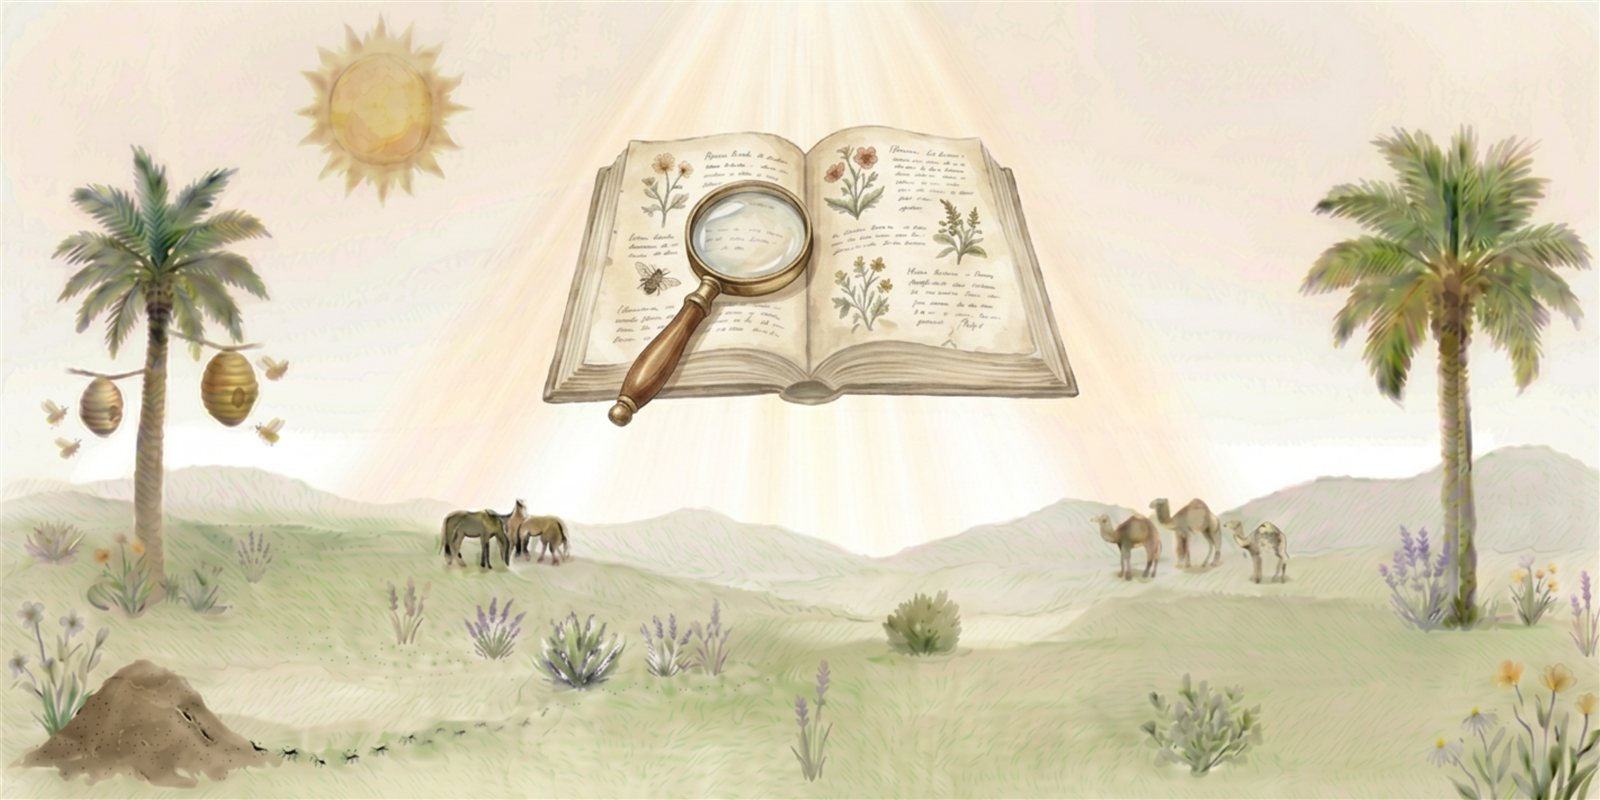
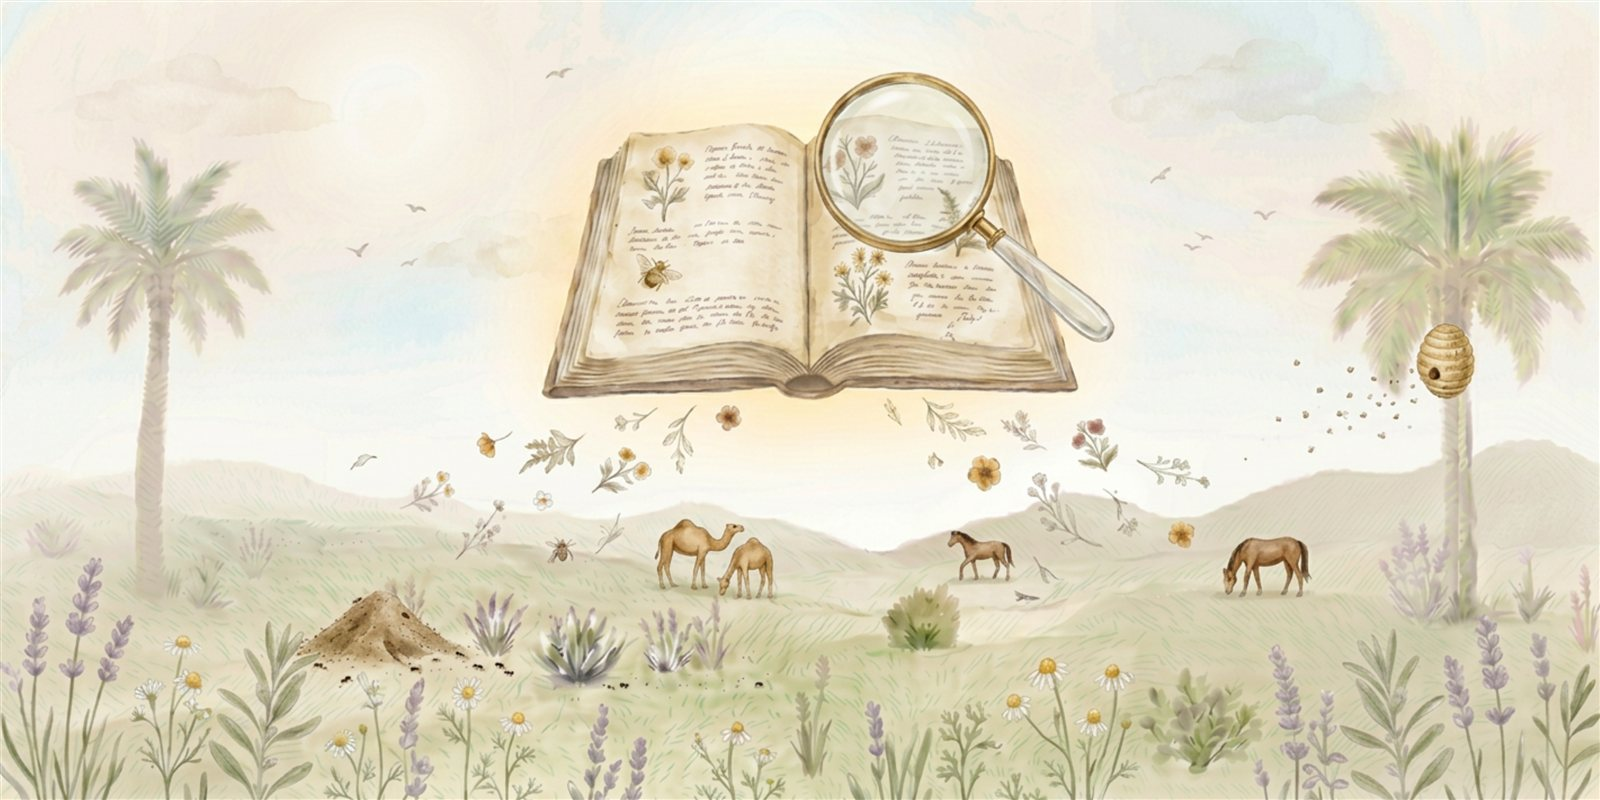
تحديث لوحة «أنا مخلوق كرمني الله» (نسخة أدقّ: دفتر نباتي + خيل وجمال ونحل ونمل ونخيل وأزهار) + كسر كاش v3

diff --git a/index.html b/index.html
@@ -308,7 +308,7 @@
 
     <div class="ug-head"><h3>وحدات الفصل الدراسي الأول</h3><span>٩ وحدات</span></div>
     <section class="units">
-      <div class="unit upcoming"><span class="soon-badge">قريبًا</span><div class="unit-cap" style="background:url('units-art/unit-makhlouq.jpg?v=2') center center/cover no-repeat!important;aspect-ratio:2/1;height:auto!important" role="img" aria-label="وحدة أنا مخلوق كرمني الله"></div><div class="unit-body"><h3>أنا مخلوق كرمني الله</h3><span class="unit-open">قيد الإعداد</span></div></div>
+      <div class="unit upcoming"><span class="soon-badge">قريبًا</span><div class="unit-cap" style="background:url('units-art/unit-makhlouq.jpg?v=3') center center/cover no-repeat!important;aspect-ratio:2/1;height:auto!important" role="img" aria-label="وحدة أنا مخلوق كرمني الله"></div><div class="unit-body"><h3>أنا مخلوق كرمني الله</h3><span class="unit-open">قيد الإعداد</span></div></div>
       <div class="unit upcoming"><span class="soon-badge">قريبًا</span><div class="unit-cap" style="background:url('units-art/unit-mumin.jpg') center center/cover no-repeat!important;aspect-ratio:2/1;height:auto!important" role="img" aria-label="وحدة أنا مؤمن"></div><div class="unit-body"><h3>أنا مؤمن</h3><span class="unit-open">قيد الإعداد</span></div></div>
       <div class="unit upcoming"><span class="soon-badge">قريبًا</span><div class="unit-cap" style="background:url('units-art/unit-kitab-allah.jpg') center center/cover no-repeat!important;aspect-ratio:2/1;height:auto!important" role="img" aria-label="وحدة أنا مع كتاب الله"></div><div class="unit-body"><h3>أنا مع كتاب الله</h3><span class="unit-open">قيد الإعداد</span></div></div>
       <div class="unit upcoming"><span class="soon-badge">قريبًا</span><div class="unit-cap" style="background:linear-gradient(165deg,#0c4a3a,#137a5c 55%,#e3c06a)"><div class="gq-uscene"><svg viewBox="0 0 340 120" preserveAspectRatio="xMidYMid slice" xmlns="http://www.w3.org/2000/svg"><g fill="#fff"><circle cx="60" cy="26" r="1.3" opacity=".5"/><circle cx="300" cy="30" r="1.4" opacity=".5"/></g><path d="M198,30 a7,7 0 1,0 1.5,13.5 a5,5 0 1,1 -1.5,-13.5Z" fill="#ffe6a8" filter="url(#wcsoft)"/><g filter="url(#wc)"><rect x="150" y="72" width="76" height="32" fill="#0e6a48" opacity="0.95"/><path d="M158,72 Q188,42 218,72 Z" fill="#12784f"/><rect x="146" y="60" width="7" height="44" fill="#0c5a3e"/><rect x="223" y="60" width="7" height="44" fill="#0c5a3e"/></g><rect width="340" height="120" filter="url(#grain)" opacity="0.5"/></svg></div></div><div class="unit-body"><h3>نبيي محمد ﷺ</h3><span class="unit-open">قيد الإعداد</span></div></div>
